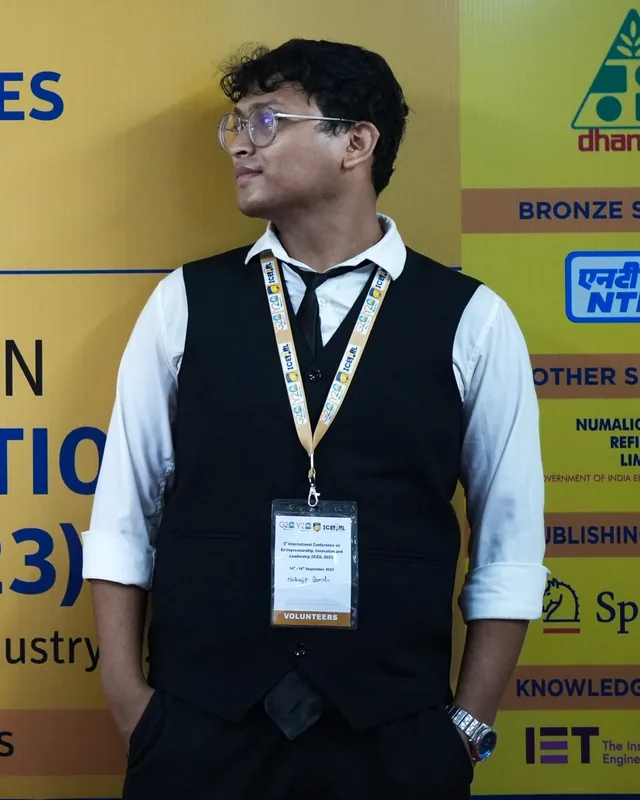
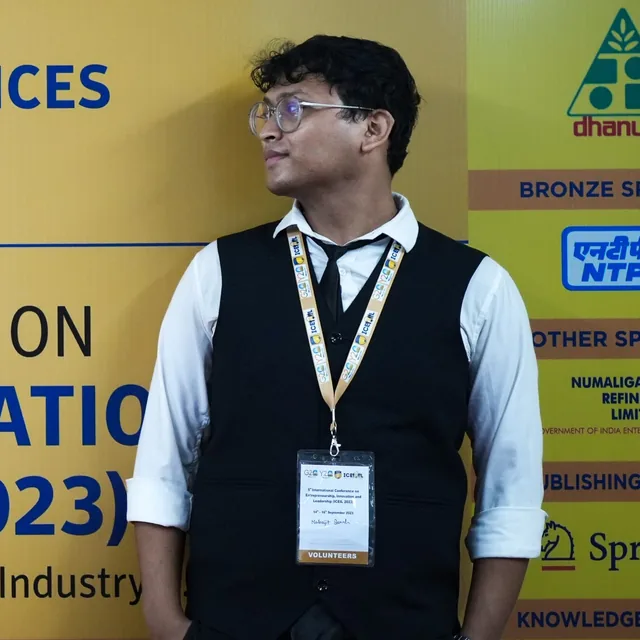
Square profile photo; fix stretched frame and stale CSS
The img height attribute without height:auto forced a tall frame, so
object-fit:cover zoomed the photo. Restore the square crop, add
height:auto, and version the stylesheet URL so browsers fetch fresh CSS
after each deploy.

Claude-Session: https://claude.ai/code/session_01E4Hakf1YEgthdgQBtfPFdE

diff --git a/assets/css/style.css b/assets/css/style.css
@@ -497,7 +497,7 @@ main {
 .profile-photo img {
   width: 100%;
   height: auto;
-  aspect-ratio: 4 / 5;
+  aspect-ratio: 1;
   object-fit: cover;
   display: block;
   border-radius: 4px;

diff --git a/index.md b/index.md
@@ -24,7 +24,7 @@ protein: true
     </ul>
   </div>
   <figure class="profile-photo">
-    <img src="{{ '/images/profile.webp' | relative_url }}" alt="Nabajit Borah" width="640" height="800">
+    <img src="{{ '/images/profile.webp' | relative_url }}" alt="Nabajit Borah" width="640" height="640">
     <figcaption>specimen: human bean · habitat: conserved motif</figcaption>
   </figure>
 </section>
